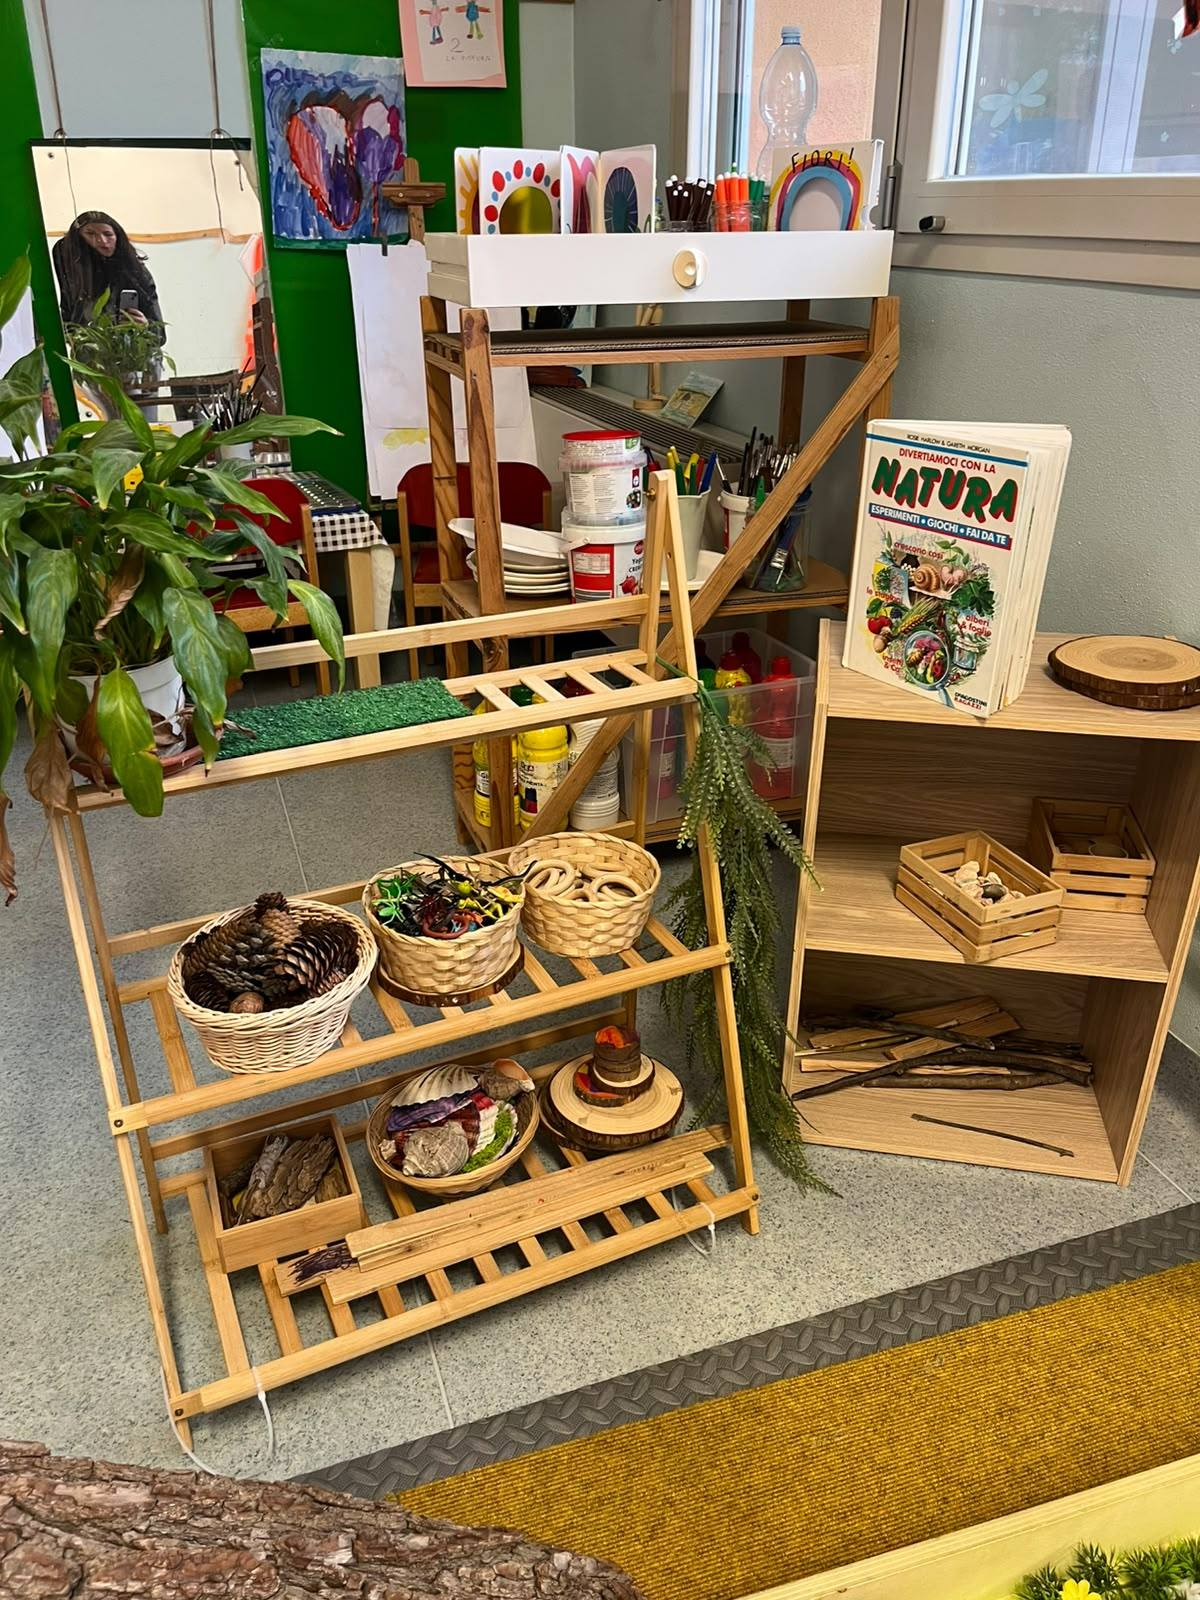
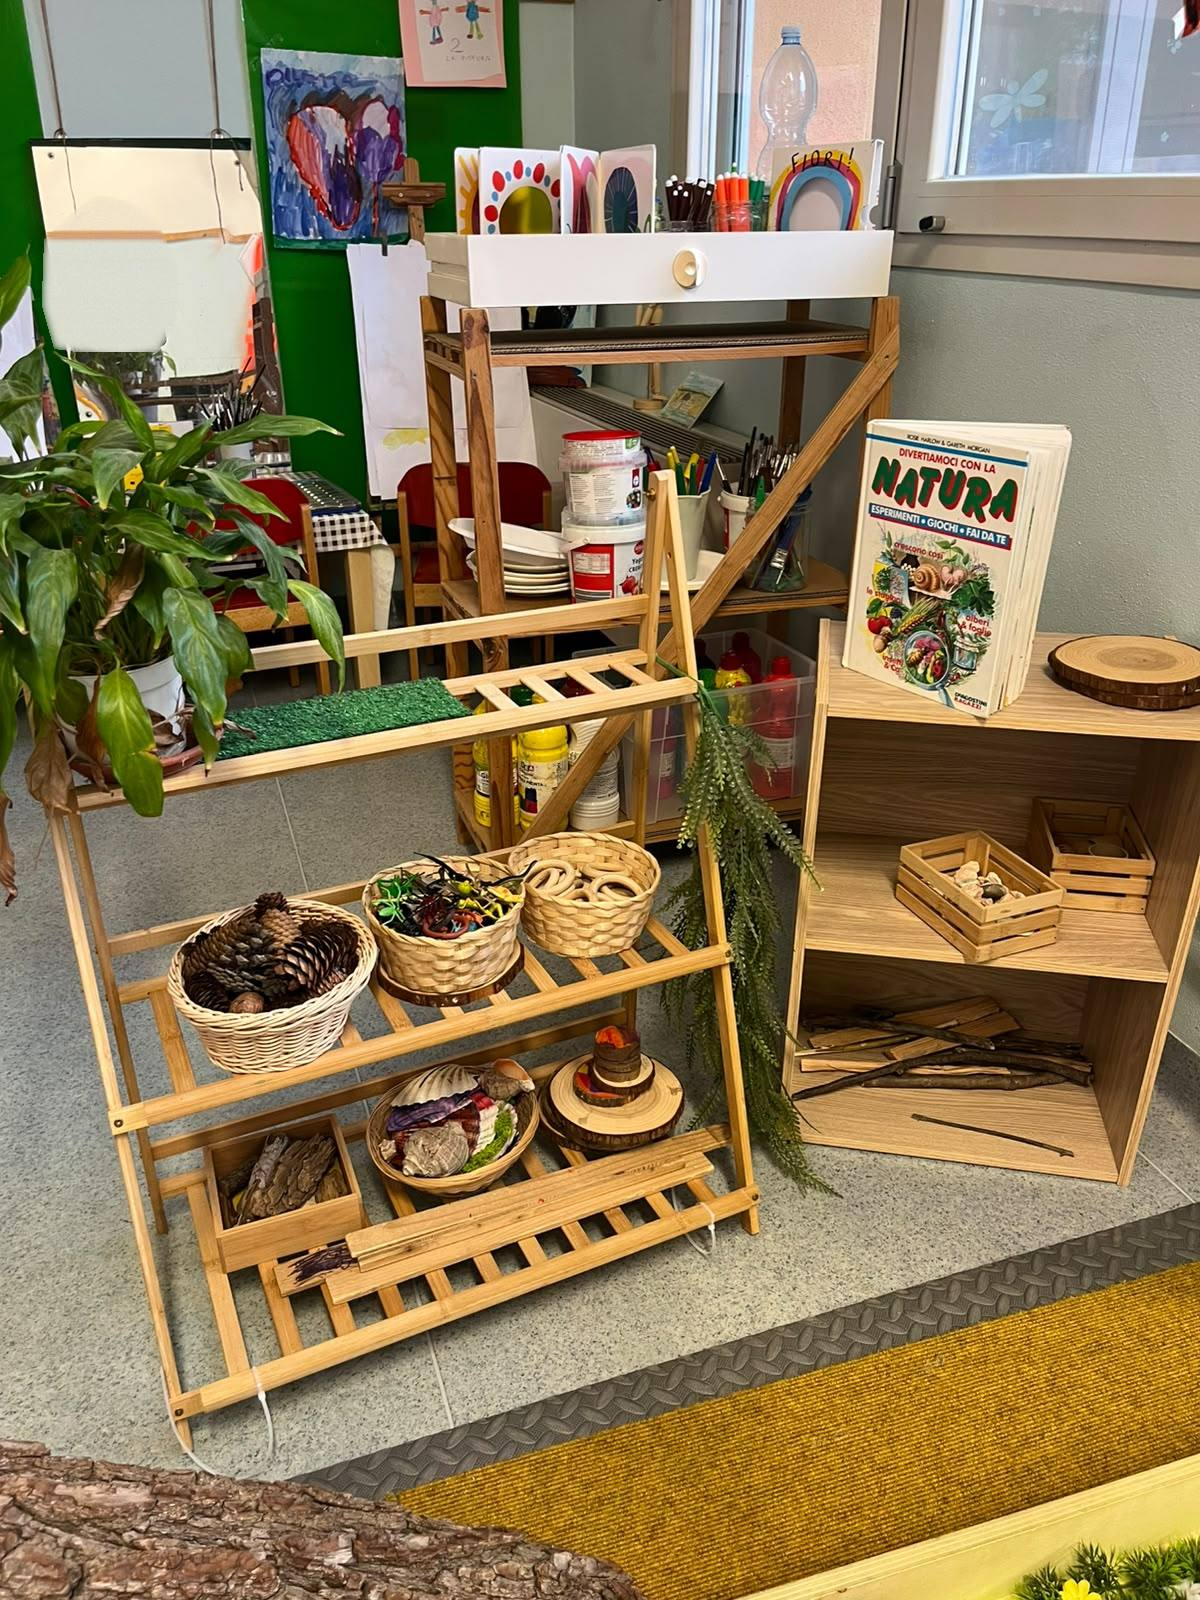
Spazi: blocco Home in cima con intro al gioco + rimozione riflesso (#19)
- Sposta il primo spazio (Home) subito dopo l'hero, cosi' il "giro" si
  nota senza dover scorrere fino in fondo alla pagina.
- Aggiunge un'introduzione ("Gira il sito e scopri i nostri spazi") che
  spiega il gioco a chi arriva.
- Rimuove la persona riflessa nello specchio nella foto dell'atelier dei
  materiali naturali, ricostruendo la parete riflessa.

Claude-Session: https://claude.ai/code/session_01WoTJ7Pto7T5i9fq3Y8fFti

Changed region(s): [[0.0308, 0.125, 0.1542, 0.2188]]

diff --git a/views.js b/views.js
@@ -68,11 +68,22 @@ function spaceNudge(next) {
     return `<p class="text-sage font-semibold leading-relaxed">👣 Continua il giro: un altro spazio ti aspetta in <a href="${next.href}" data-route="${next.href}" class="text-gold underline underline-offset-4 decoration-2 hover:text-sage whitespace-nowrap">${next.label} →</a></p>`;
 }
 
+// Introduzione al "giro" (usata una volta, in Home)
+function spaceIntro() {
+    return `
+        <div class="text-center max-w-2xl mx-auto mb-12 reveal">
+            <span class="inline-block text-xs font-bold uppercase tracking-[0.25em] text-gold mb-3"><i data-lucide="search" class="inline w-4 h-4 -mt-1"></i> Un gioco per voi</span>
+            <h2 class="text-3xl md:text-4xl font-display font-bold text-sage">Gira il sito e scopri i nostri spazi</h2>
+            <p class="text-ink/60 mt-4 text-lg">Abbiamo nascosto la foto di un nostro ambiente in ogni pagina: segui gli inviti e scoprili tutti e ${SPAZI_TOTALE}. 🧭</p>
+        </div>`;
+}
+
 // Blocco "feature" (una sola foto, immagine + testo affiancati, alternati)
-function spaceFeature(space, next, { bg = 'bg-cream', flip = false } = {}) {
+function spaceFeature(space, next, { bg = 'bg-cream', flip = false, lead = '' } = {}) {
     return `
         <section class="py-16 ${bg} border-t border-sage/10 overflow-hidden">
             <div class="container mx-auto px-6">
+                ${lead}
                 <div class="grid md:grid-cols-2 gap-10 items-center max-w-5xl mx-auto">
                     <figure class="reveal ${flip ? 'md:order-2' : ''}">
                         ${spaceImage(space, 'w-full h-auto rounded-[2rem] shadow-xl border border-sage/10')}
@@ -168,6 +179,9 @@ export async function renderHome() {
             </div>
         </section>
 
+        <!-- I NOSTRI SPAZI: inizio del giro -->
+        ${spaceFeature(data.spaces[0], { href: '/metodo', label: 'Il Metodo' }, { bg: 'bg-cream', lead: spaceIntro() })}
+
         <!-- TRUST MARQUEE -->
         <div class="marquee overflow-hidden border-y border-sage/10 bg-white/60 py-5">
             <div class="marquee-track">${marquee}</div>
@@ -246,8 +260,6 @@ export async function renderHome() {
                 </div>
             </div>
         </section>
-
-        ${spaceFeature(data.spaces[0], { href: '/metodo', label: 'Il Metodo' }, { bg: 'bg-white' })}
 
         ${ctaBanner('Vuoi vedere la scuola di persona?')}
     `;
